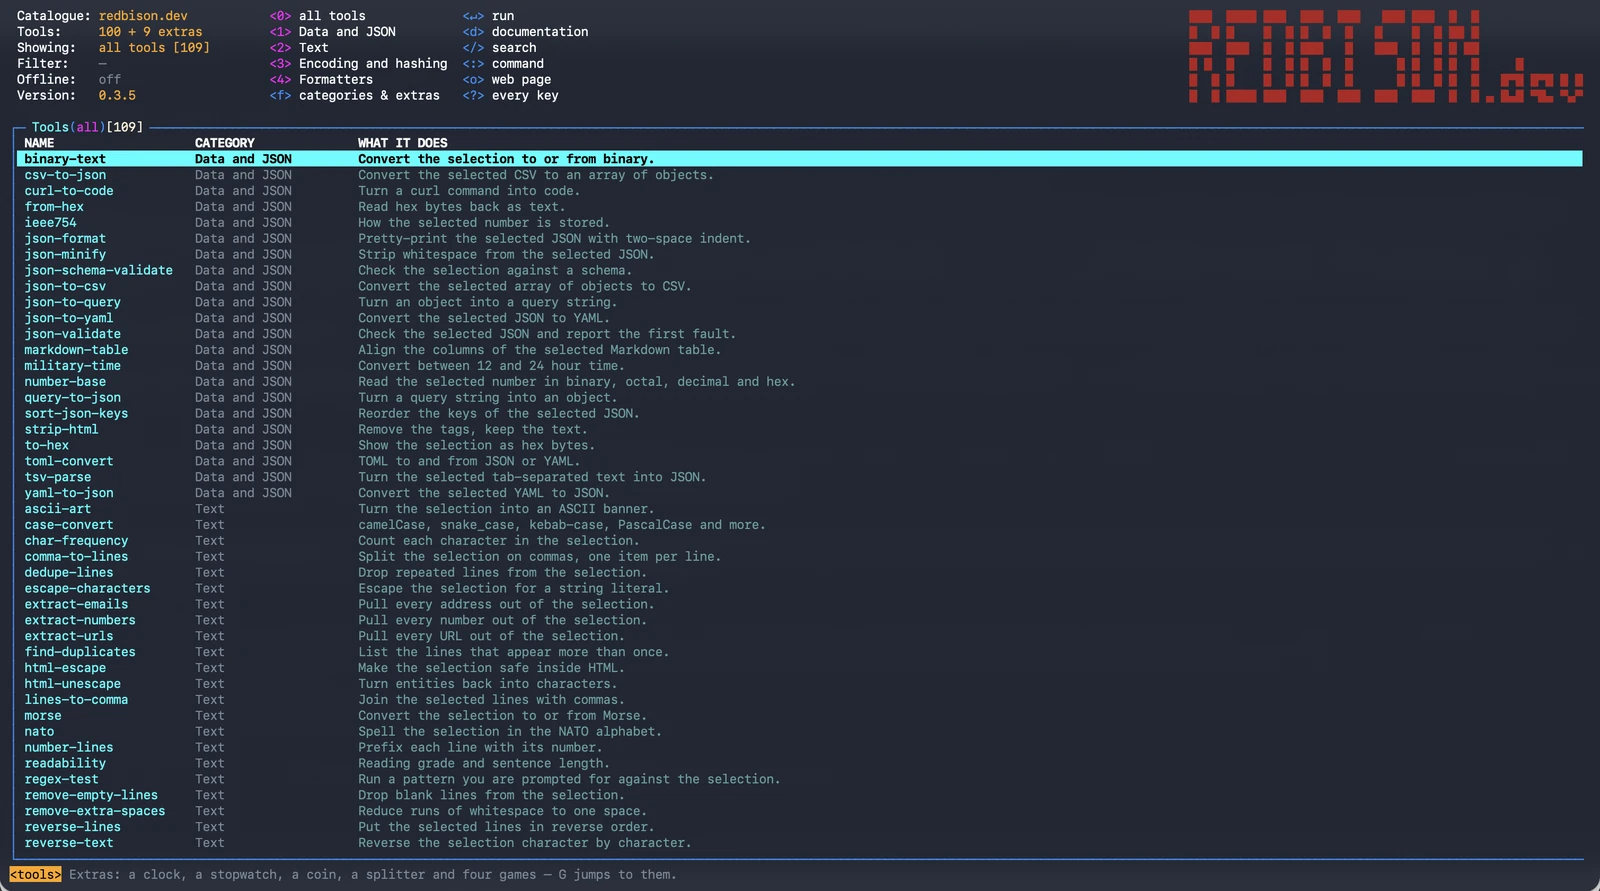
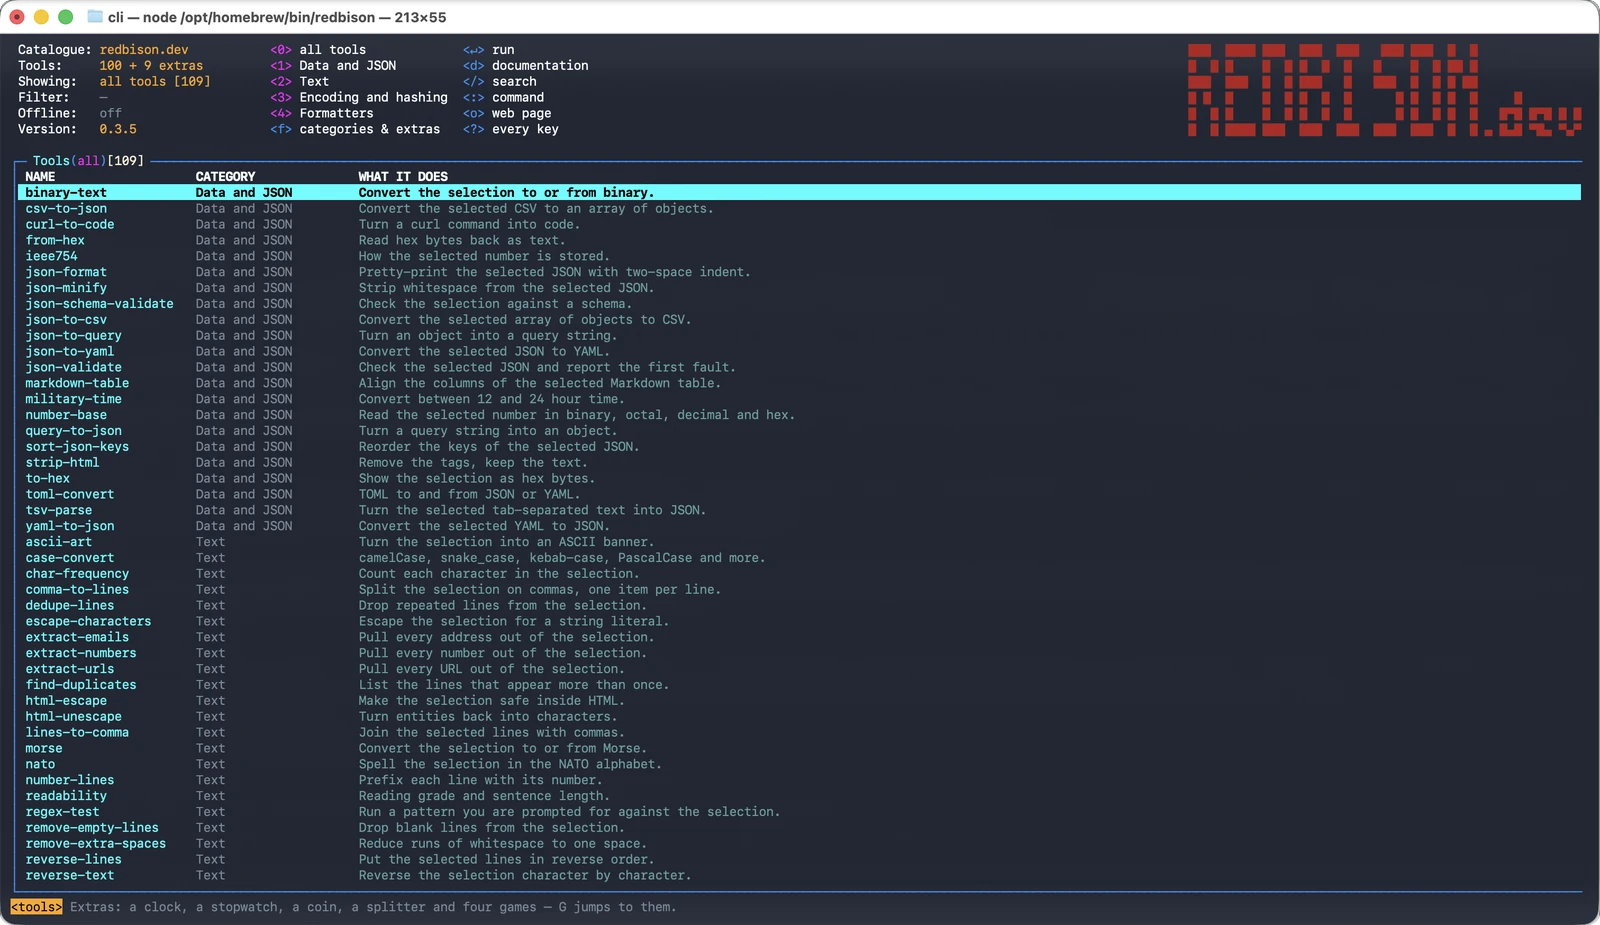
readme: the picker screenshot keeps its terminal window

Changed region(s): [[0.0, 0.0, 1.0, 1.0]]

diff --git a/README.md b/README.md
@@ -104,7 +104,7 @@ endpoint and say so in their `--help`.
 Run it with no arguments and you get a full-screen picker: type to search, `↵` to run,
 `d` for the docs, `y` to copy the answer (or the command when there is no answer yet).
 
-![The RedBison picker filling a 213-column terminal: a header counting 100 tools and 9 extras, category shortcuts and key hints beside the block logo, above the tool list](docs/cli-picker.webp)
+![The RedBison picker in a 213-column macOS terminal window: a header counting 100 tools and 9 extras, category shortcuts and key hints beside the block logo, above the tool list](docs/cli-picker.webp)
 
 ```sh
 cd cli && bun install && bun run build
